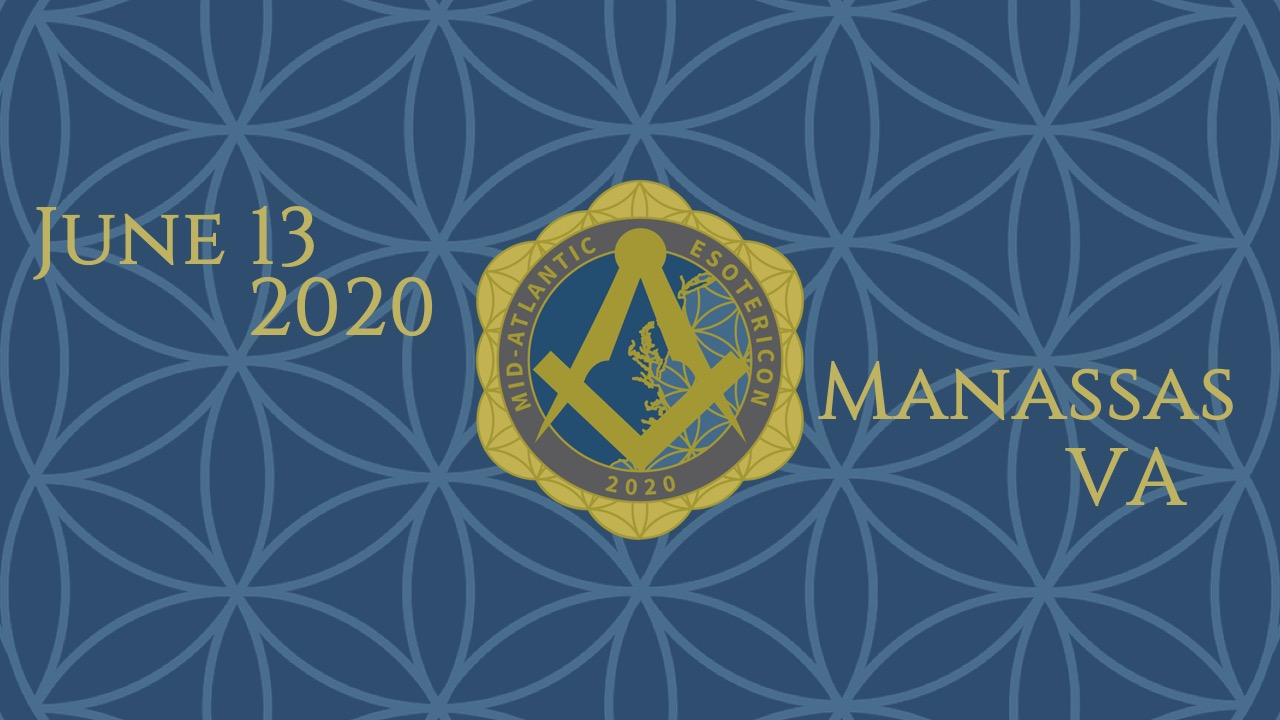
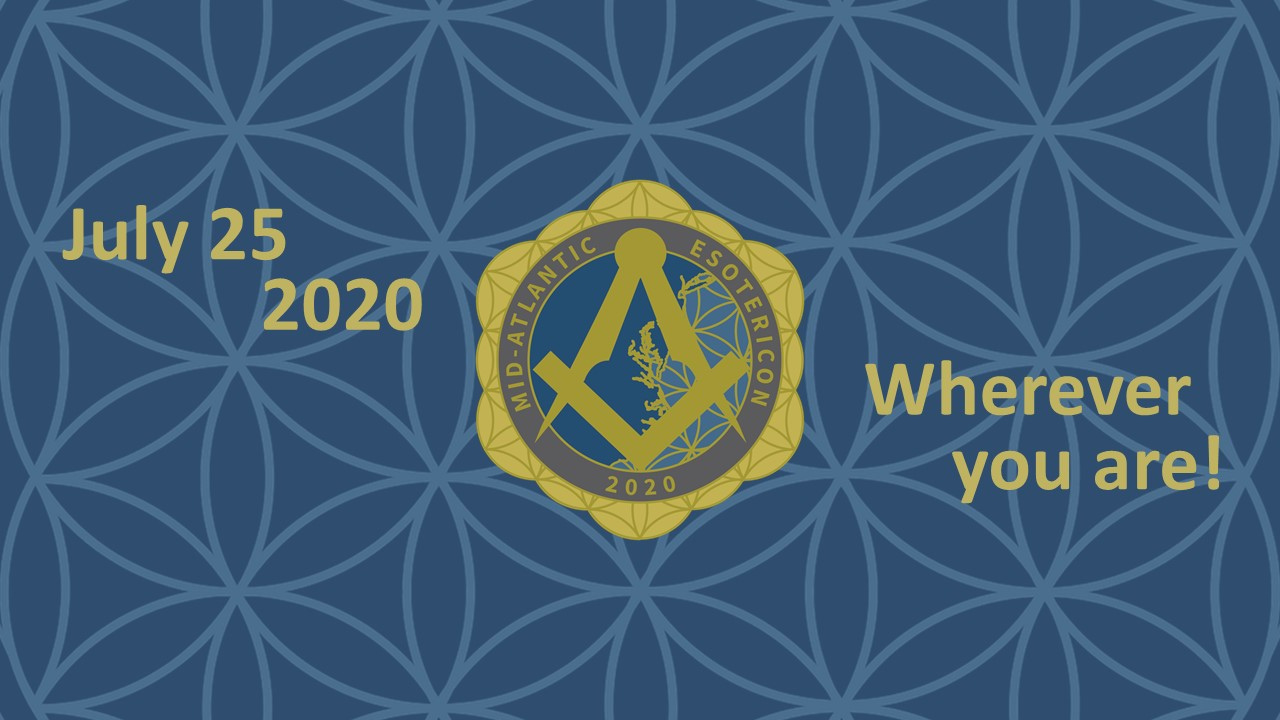
Updated to version 1.3.9
- Location and date change added to reflect move to July 25 and a
virtual conference
- Updated logo added

Changed region(s): [[0.625, 0.4889, 0.9688, 0.7028], [0.0312, 0.275, 0.3438, 0.4889]]

diff --git a/src/pages/index.js b/src/pages/index.js
@@ -57,9 +57,17 @@ const IndexPage = () => (
               the stigma associated with Esoteric topics.
             </p>
             <p className="text-white-50">
-              The 2020 edition of the Conference will take place at Kena Shrine,
-              in Manassas Virginia on Saturday June 13th 2020. Tickets are on sale
-              now!
+              Update - Due to the current situation in Virginia surrounding the 
+              coronavirus pandemic, we have a date and location change for this 
+              years Esotericon. We do apologize for the inconvenience, especially 
+              to those of you who have already made travel reservations. Unfortunately,
+              we don't forsee Virginia allowing gatherings as large as ours will be
+              by the time Esotericon rolls around. The new date for Esotericon will 
+              be Saturday July 25th, and the conference will be virtual instead
+              of in person. Details have been emailed to all attendees, additionally
+              because the conference is virtual we are opening it up to additional 
+              attendees. Thank you for your understanding, and we hope that in
+              2021 Esotericon will be back to an in-person conference!
             </p>
             <h2 className="text-white mb-4">
               <a href="https://www.eventbrite.com/e/2020-mid-atlantic-esotericon-tickets-80112816591">Purchase Tickets Now!</a>
